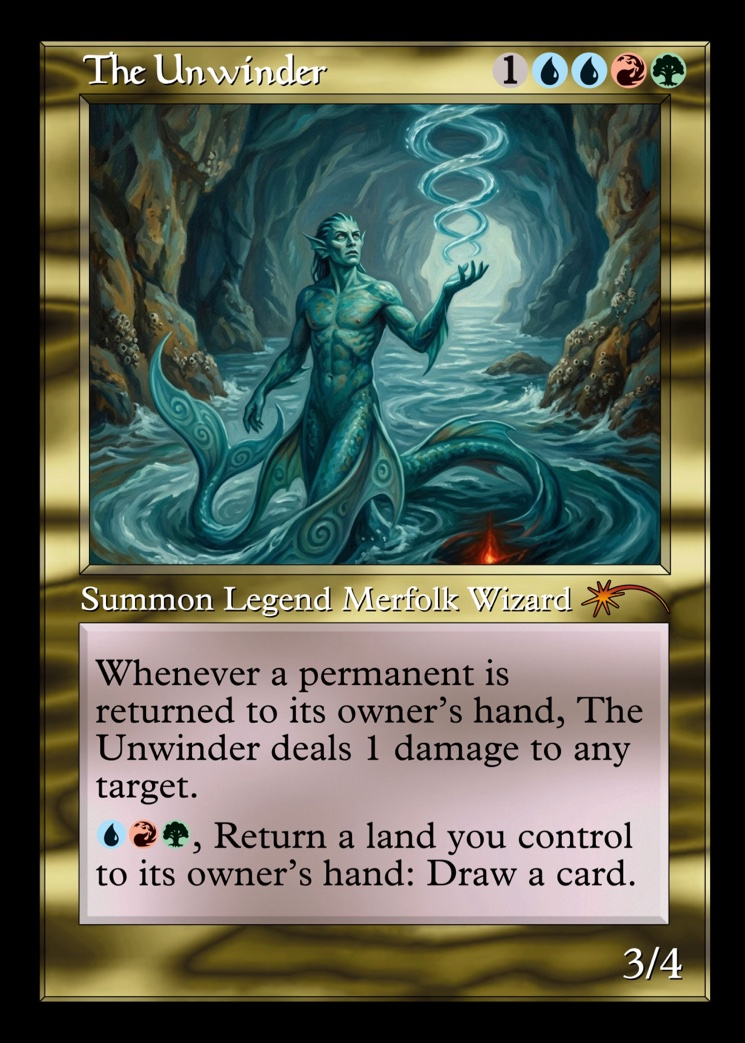
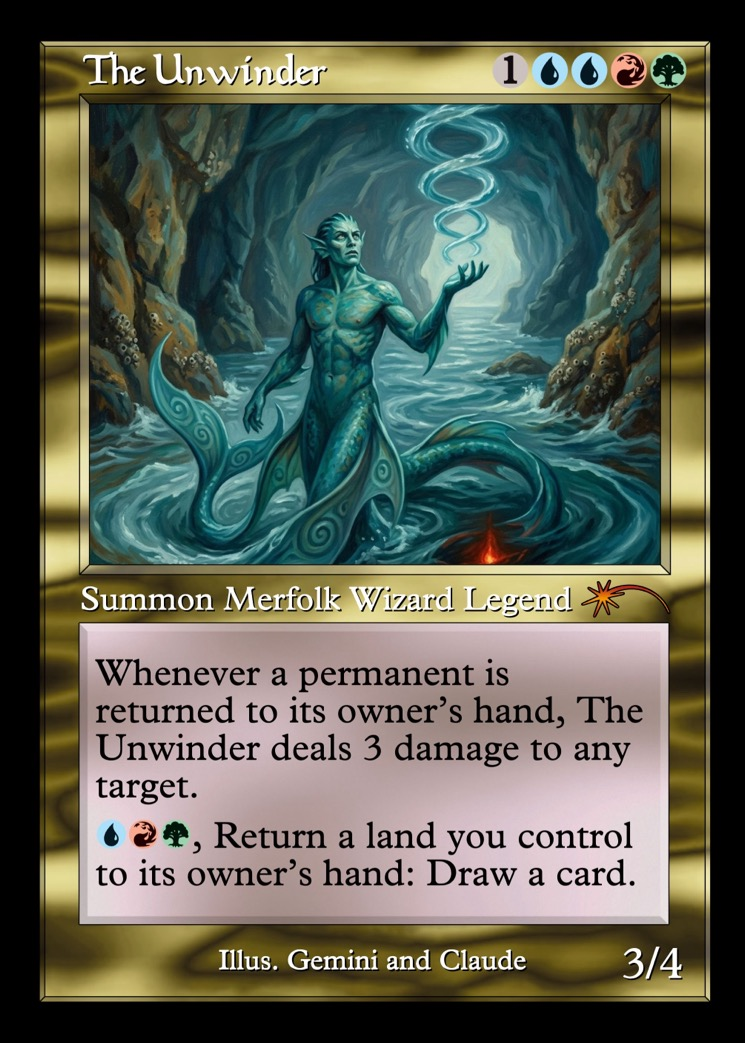
The Unwinder's ping is 3 damage (Chris, 2026-09-15; was 1): def, text, the as-printed render v2 installed, the registry row and cards.md; two S22 fixtures re-based (the pinged Bears die; the Boomerang costs 3); lord-sim rows for the Unwinder recorded in the handoff.

diff --git a/packages/engine/test/s22-a10.test.ts b/packages/engine/test/s22-a10.test.ts
@@ -31,8 +31,9 @@ describe("A10 words 1–2 — the Unwinder", () => {
     };
     const tg = await runFixture(spec);
     expect(tg.handCardIds(0).sort()).toEqual(["forest", "island"]); // the bounced land + the drawn card
-    const bears = onBf(tg, "grizzly_bears")[0]!;
-    expect(getObject(tg.game.state, bears).damage).toBe(1); // the ping resolved above the draw
+    // 2026-09-15 (Chris): the ping is 3 now (was 1) — the 2/2 Bears die to it (the ping resolved above the draw).
+    expect(onBf(tg, "grizzly_bears")).toHaveLength(0);
+    expect(tg.game.state.players[1].graveyard.map((id) => getObject(tg.game.state, id).cardId)).toContain("grizzly_bears");
   });
 
   it("the trigger is symmetric over controller and cause: the opponent's own Boomerang feeds the ping", async () => {
@@ -50,7 +51,7 @@ describe("A10 words 1–2 — the Unwinder", () => {
     };
     const tg = await runFixture(spec);
     expect(tg.handCardIds(1)).toContain("grizzly_bears");
-    expect(tg.game.state.players[1].life).toBe(19); // interacting with the tide costs you
+    expect(tg.game.state.players[1].life).toBe(17); // interacting with the tide costs you — 3 since 2026-09-15 (was 1)
   });
 });
 

diff --git a/handoff.md b/handoff.md
@@ -21,6 +21,12 @@
 
 **The world path and the broader seat audit (Chris: the report came from world play; is anything tied to a hardcoded seat?).** In the world the human is always seat 0 (`prepareDuel` seats the player first; the coin flip only picks who acts first), so the label defect could not have produced it there. Audited for hardcoded seats: the **engine** has none in rules or effects — every trigger collector is controller-relative (the landfall collector compares the entering land's controller with the Crab's, so an opposing Crab never fires on your land; the mill effect reads the chosen target; `players("you"/"opponent")` are the resolving item's controller and its opponent), and the only literal 0/1 indices are symmetric array reads (life, libraries, graveyards for the view and the result). The **cards/agents** carry none (combat-sim's two-seat life array). The **UI's** literal seats are the world's by-construction seating (the human at players[0]), the replay viewer's player-0-as-You convention (LogPanel, Rail), and the fixed `actionLabel`. An engine-level regression now pins the Crab from BOTH seats with a Crab on each side (`r8-crab-seats.test.ts`): one trigger, chosen at the opponent, mills the opponent's library by three and nothing else; the self-aim mills only the chooser. **What the world report most plausibly was**: a duel where the opponent also ran Crabs (Tessaly, Pell, Varro, Quill carry three or four) — the opponent's land fires the opponent's Crab, its AI aims at the player, and the play-by-play shows "Opp: Trigger targets → You" beside the player's own "You: Trigger targets → Opponent" a moment earlier; both mills happen and the player's cards go while the log also reports the opponent's. Without the seed that stays a reading; the last six duels of a save keep their replay log (the rail's "Recent duels"), so if the game is still in that save its log settles it.
 
+## Card change (Chris, 2026-09-15): The Unwinder's ping is 3 damage
+
+**The change.** The Unwinder's RETURNED_TO_HAND trigger deals **3 damage to any target** (was 1) — the def's effect, its text, the pool-registry row, `cards.md` (regenerated) and the as-printed render v2 (Chris's delivery, verified word-for-word: only the number changed; installed at 745px, the MANIFEST row notes the re-drop). No vocabulary touched. Two S22 fixtures re-based: the engine's own bounce cost now kills the 2/2 Bears it pinged (was 1 damage on them), and the opponent's Boomerang costs them 3 (20 → 17, was 19). Default tier 602 passed / 2 skipped; typecheck clean.
+
+**Measured (`pnpm lord-sim --games 20`, the Unwinder at Spiral Spire under The Risen Tide — the lord's kill rate over the stock references; life variants hunted 15 / base 30 / grown 50 at empowerment steps 0 / 75 / 100):** hunted 15: 61% · 88% · 95%; base 30: 87% · 82% · 98%; grown 50: 78% · 91% · 98%. The Unwinder was already the sharpest lord at his base; three points a bounce makes every Boomerang, Man-o'-War and Channeler a Lightning Bolt beside the tide — worth a look in world play against a green road (the Bears-class bodies now die to a single bounce), and a Lab cell if the number wants a second opinion (the lords are in the pickers). The pre-change lord-sim rows are not on record in this format; the S22b handoff's tables were the last run.
+
 ## Deviations from the brief
 
 1. **Six words, not three.** The brief named the cleanup return and the activation condition and called the rest existing; encoding found the Collector needs an action (`nameCard`) and an event (`REVEALED`), plainscycling needs the search form of cycling, and the Angel's "artifacts and/or enchantments" needs one predicate for a range spec plus exile's fan-out. All six are general (R-096), no carve-outs.

diff --git a/docs/reference/cards.md b/docs/reference/cards.md
@@ -175,7 +175,7 @@
 | Clio, Lady of the Depths | UB | Legendary Creature — Human Advisor | {1}{U}{B} | 3 | 2/4 |  | — | 16 | prizeOnly, custom | At the beginning of your end step, put a depth counter on Clio. Creatures your opponents control get -1/-0 for each depth counter on Clio. {U}{B}, Remove three depth counters from Clio: Draw two cards, then each opponent discards a card. |
 | Aetherbolt | UR | Instant | {1}{U}{U}{R} | 4 |  |  | R | 50 | custom | Return target permanent to its owner's hand. Aetherbolt deals 3 damage to any target. |
 | Experimental Overload | UR | Sorcery | {2}{U}{R} | 4 |  |  | R | 50 |  | Create an X/X blue and red Weird creature token, where X is the number of instant and sorcery cards in your graveyard. Then you may return an instant or sorcery card from your graveyard to your hand. Exile Experimental Overload. |
-| The Unwinder | URG | Legendary Creature — Merfolk Wizard | {1}{U}{U}{R}{G} | 5 | 3/4 |  | — | 24 | prizeOnly, custom | Whenever a permanent is returned to its owner's hand, The Unwinder deals 1 damage to any target. {U}{R}{G}, Return a land you control to your hand: Draw a card. |
+| The Unwinder | URG | Legendary Creature — Merfolk Wizard | {1}{U}{U}{R}{G} | 5 | 3/4 |  | — | 24 | prizeOnly, custom | Whenever a permanent is returned to its owner's hand, The Unwinder deals 3 damage to any target. {U}{R}{G}, Return a land you control to your hand: Draw a card. |
 | Savannah Lions | W | Creature — Cat | {W} | 1 | 2/1 |  | 1 | 8 |  |  |
 | Soul Warden | W | Creature — Human Cleric | {W} | 1 | 1/1 |  | 1 | 8 |  | Whenever another creature enters, you gain 1 life. |
 | Spirit Link | W | Enchantment — Aura | {W} | 1 |  |  | 1 | 8 |  | Enchant creature (Target a creature as you cast this. This card enters attached to that creature.) Whenever enchanted creature deals damage, you gain that much life. |

diff --git a/docs/registries/pool-registry.md b/docs/registries/pool-registry.md
@@ -192,7 +192,7 @@ Tokens added: bear_2_2 (G), bird_1_1_flying (W), wurm_4_4 (G), zombie_2_2 (B), f
 
 | cardId | name | status | vocabulary | notes |
 |---|---|---|---|---|
-| the_unwinder | The Unwinder | tested | RETURNED_TO_HAND observed trigger (w1); returnToHand cost (w2) | custom Legendary {1}{U}{U}{R}{G} 3/4; prizeOnly (Spiral Spire sole-drop); printedAsset |
+| the_unwinder | The Unwinder | tested | RETURNED_TO_HAND observed trigger (w1); returnToHand cost (w2) | custom Legendary {1}{U}{U}{R}{G} 3/4; prizeOnly (Spiral Spire sole-drop); printedAsset. **2026-09-15 (Chris): the trigger deals 3 damage (was 1)** — def, text and the as-printed render v2 together. |
 | the_usher | The Usher | tested | temporary reanimate (w3) + who:any graveyard target; observed DIES drain | custom Legendary {1}{B}{B}{W}{R} 5/5; prizeOnly (Charnel Court); printedAsset |
 | the_warden | The Warden | tested | UNTAPPED law + event addressing (w5); ATTACKS + A8 range tap | custom Legendary {1}{W}{W}{G}{B} 4/4 vigilance reach; prizeOnly (Argent Bastion); printedAsset |
 | the_stoker | The Stoker | tested | unlessPay fork (w7); grantAbility hand cycling (w8); SPELL_CAST activation | custom Legendary {1}{R}{R}{B}{U} 5/5; prizeOnly (Furnace Gate); printedAsset |
